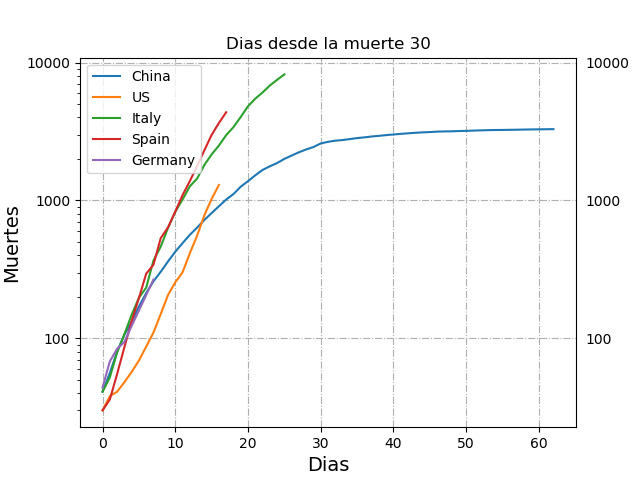
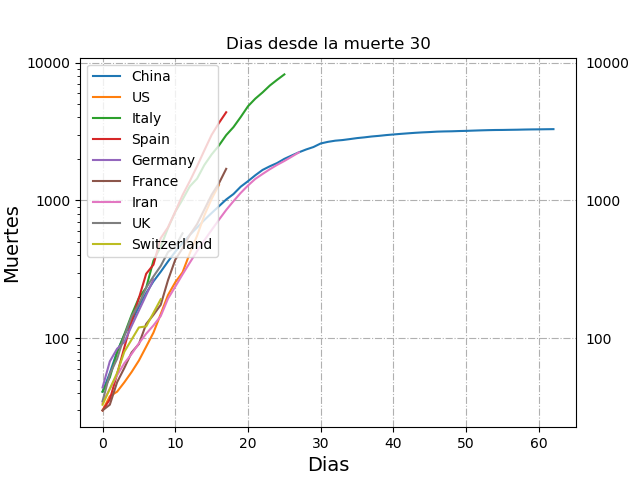
first version working

diff --git a/badfunctions.py b/badfunctions.py
@@ -7,7 +7,7 @@
 #########################################################################
 
 ## MODULES
-from urllib.request import urlopen
+from urllib.request import urlopen, Request
 
 from datetime import date, timedelta
 import datetime
@@ -42,7 +42,10 @@ def req_data(number_of_countries):
     general_data = []
     print("Starting data request...")
     countries = []
-    response = urlopen("https://www.worldometers.info/coronavirus/#countries")
+    url = "https://www.worldometers.info/coronavirus/#countries"
+    req = Request(url, headers = {"User-Agent": "Mozilla/5.0"})
+    #response = urlopen()
+    response = urlopen(req)
     page_source = str(response.read())
 
     ref_string_for_country = 'class="mt_a" href="country/'
@@ -67,7 +70,10 @@ def req_data(number_of_countries):
         elif countries[i] == 'S. Korea':
             countries[i] = 'south-korea'
 
-        response = urlopen("https://www.worldometers.info/coronavirus/country/"+str(countries[i]+"/"))
+        url = "https://www.worldometers.info/coronavirus/country/"+str(countries[i]+"/")
+        req = Request(url, headers = {"User-Agent": "Mozilla/5.0"})
+        #response = urlopen()
+        response = urlopen(req)
         page_source = str(response.read())
         str_ref = '<script type="text/javascript">'
         divided = page_source.split(str_ref)
@@ -140,7 +146,10 @@ def req_data(number_of_countries):
     print(" ")
     print('Starting realtime request...')
     #Asking for realtime data
-    response = urlopen("https://www.worldometers.info/coronavirus/#countries")
+    
+    url = "https://www.worldometers.info/coronavirus/#countries"
+    req = Request(url, headers = {"User-Agent": "Mozilla/5.0"})
+    response = urlopen(req)
     page_source = str(response.read())
 
     for i in range(0, number_of_countries-1):
@@ -223,7 +232,7 @@ def plot_death_last_x_days(data_dict, countries, days, death_threshold, path):
     for i in range(0, len(lis_total)):
         plt.plot(lis_total[i], label=countries[i])
 
-    plt.legend(loc='upper left')
+    plt.legend(loc='lower right')
 
     ax = fig.add_subplot(111)
     ax.tick_params(labeltop=False, labelright=True)
@@ -406,3 +415,54 @@ def plot_forecast(datos, future_days, path):
   
   # Breve explicacion de lo que hace 'curve_fit'
   # https://astrofrog.github.io/py4sci/_static/15.%20Fitting%20models%20to%20data.html
+  
+  
+  
+  
+  
+#########################################################################
+## obtain_message 
+##
+## TCreates the message is going to be sent to the channel
+##
+## input:    data_dict
+##           countries 
+##
+## output:   message
+##         
+#########################################################################  
+def obtain_message(data_dict, countries):  
+  # obtain last spanish values from .txt
+  with open('/home/pi/Documents/telegram/covid/log.txt', 'r') as f:
+  		lines = f.read().splitlines()
+  		last_line = lines[-1]
+  		data = last_line.split('.')[1]
+  		data = data.split(',')
+  		_infected = float(data[1])
+  		_deaths = float(data[2])
+  		_recovered = float(data[3])
+  
+  
+  message = ""
+  msg_header = "INFO COVID-19\n"
+  msg = ""
+  
+  for country in countries:
+    for key in data_dict[country]:
+      if key == "Cases":
+        if country == "Spain":
+          msg_spain = country + "\n"
+          msg_spain = msg_spain + key + ": " + str(data_dict[country][key][-1]) + " (+" +str(data_dict[country][key][-1]-int(_infected)) + ")\n"
+        else:
+          msg = msg + country + "\n"
+          msg = msg + key + ": " + str(data_dict[country][key][-1]) + "\n"
+      elif key == "Deaths":
+        if country == "Spain":
+          msg_spain = msg_spain + key + ": " + str(data_dict[country][key][-1]) + " (+" +str(data_dict[country][key][-1]-int(_deaths)) + ")\n\n"
+        else:
+          msg = msg + key + ": " + str(data_dict[country][key][-1]) + "\n\n"
+      
+  msg_footer = "\n"
+  
+  message = msg_header + msg_spain + msg + msg_footer
+  return message

diff --git a/main_covid.py b/main_covid.py
@@ -32,8 +32,11 @@ import scipy.optimize as opt
 # No usar rutas relativas
 # -----------------------------------------------------------------------
 
+import telebot
+from datetime import datetime
+import time
 
-from badfunctions import req_data, plot_death_last_x_days, plot_heat_map, plot_forecast
+from badfunctions import req_data, plot_death_last_x_days, plot_heat_map, plot_forecast, obtain_message
 
 
 # Raspberry path
@@ -42,15 +45,36 @@ path = '/home/pi/Documents/telegram/covid/'
 # Telegram token
 with open('/home/pi/Documents/telegram/util/token.txt') as f:
     token = f.readline()
+    token = token.replace('\n','')
 
+# Channel and group IDs
+GROUP_ID = -1001199015924
+CHANNEL_ID = -1001470969008
 
 # Extract data
-num_countries = 6
+num_countries = 10
 [data_dict, countries] = req_data(num_countries)
 
 # Plots
 plot_death_last_x_days(data_dict, countries, 10, 30, path)
-
 plot_heat_map(data_dict, countries, path)
-
 plot_forecast(data_dict['Spain']['Deaths'], 5, path)
+
+# timestamp
+stamp = datetime.now()
+
+# bot token
+bot = telebot.TeleBot(str(token))
+
+# Create message
+message = obtain_message(data_dict, countries)
+
+#if(stamp.time().hour < 8):
+bot.send_message(GROUP_ID, message)
+	#bot.send_message(CHANNEL_ID, msg)
+
+#if(stamp.time().hour == 10):
+figure_comparison = open(path+'figures/death_last_10_threshold_30.png', 'rb')
+figure_square = open(path+'figures/deaths_daily_square.png', 'rb')
+bot.send_photo(GROUP_ID, figure_comparison)
+bot.send_photo(GROUP_ID, figure_square)
